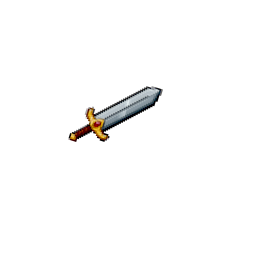
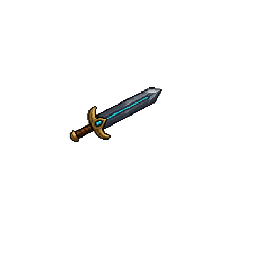
art: establish cyber-xiphos and rail-lance weapon language

Changed region(s): [[0.25, 0.3125, 0.6562, 0.5625]]

diff --git a/e2e/operator-weapon-art.spec.ts b/e2e/operator-weapon-art.spec.ts
@@ -1,0 +1,42 @@
+import { test, expect } from '@playwright/test';
+
+// Full-frame registration is the attachment contract: the renderer has no
+// per-weapon offset. Catch missing alpha, stray backgrounds and detached grips.
+for (const weapon of ['sword', 'spear']) {
+  test(`${weapon} loads as a transparent, hand-registered equipment layer`, async ({ page }) => {
+    await page.goto('/');
+    const result = await page.evaluate(async name => {
+      const map = await import('/src/lib/game/compendium-image-map.ts');
+      const read = async (url: string) => {
+        const image = new Image(); image.src = url; await image.decode();
+        const canvas = document.createElement('canvas');
+        canvas.width = image.width; canvas.height = image.height;
+        const ctx = canvas.getContext('2d')!; ctx.drawImage(image, 0, 0);
+        return { width: image.width, height: image.height,
+          data: ctx.getImageData(0, 0, canvas.width, canvas.height).data };
+      };
+      const art = await read(map.getWeaponImagePath(name));
+      const hand = await read(map.getOperatorHandPath());
+      let ink = 0, outside = 0, overlap = 0, sx = 0, sy = 0;
+      for (let y = 0; y < art.height; y++) for (let x = 0; x < art.width; x++) {
+        const i = (y * art.width + x) * 4 + 3;
+        if (!art.data[i]) continue;
+        ink++;
+        // Padded original weapon envelope, not a snapshot of the new artwork.
+        if (x < 44 || x > 164 || y < 84 || y > 151) outside++;
+        if (art.data[i] >= 128 && hand.data[i] >= 128) { overlap++; sx += x; sy += y; }
+      }
+      return { width: art.width, height: art.height, ink, outside, overlap,
+        gripX: sx / overlap, gripY: sy / overlap };
+    }, weapon);
+    expect([result.width, result.height]).toEqual([256, 256]);
+    expect(result.ink).toBeGreaterThan(200);
+    expect(result.ink).toBeLessThan(5000);
+    expect(result.outside).toBe(0);
+    expect(result.overlap).toBeGreaterThan(50);
+    expect(result.gripX).toBeGreaterThan(79);
+    expect(result.gripX).toBeLessThan(84);
+    expect(result.gripY).toBeGreaterThan(129);
+    expect(result.gripY).toBeLessThan(134);
+  });
+}

diff --git a/docs/AI-OPERATOR-ART-HANDOFF.md b/docs/AI-OPERATOR-ART-HANDOFF.md
@@ -1,7 +1,8 @@
-# Operator equipment art — Execution 1 baseline
+# Operator equipment art — Executions 1–2
 
 Branch: `astra/operator-equipment-art-revision`, from current main **aaff08e**
-(2026-09-13). Execution 1 complete; no production code, mappings or PNGs changed.
+(2026-09-13). Execution 2 complete (2026-09-14): only the sword and spear
+production PNGs revised. Production code, mappings and all other art unchanged.
 
 ## Durable references
 
@@ -113,15 +114,62 @@ Pre-existing observations (do not repair in Execution 1):
   No equipment alpha touches a source-canvas edge, and no source-edge clipping or
   disconnected grip was found in the reviewed composites. No async render errors.
 
+## Execution 2 — weapon foundation
+
+- **Cyber-Xiphos:** dark advanced blade with a subtle leaf-shaped swell, steel-grey
+  bevel, substantial antique-brass curved/wing guard, and one narrow cyan blade
+  seam. The guard's cyan inset supports that focal point without bloom. Keep the
+  blade predominantly dark; classical ancestry is geometry, not engraving.
+- **Hoplite Rail-Lance:** long segmented dark-composite shaft, compact brass-ended
+  counterweight, strong brass collar, angular leaf spearhead and narrow cyan core.
+  Both weapons now share the utilities' dark hardware and restrained cyan. Gold
+  occupies fittings rather than whole blades; no external glow or ornament text.
+- Generated using built-in imagegen with original PNGs as positional targets and
+  scanner/thruster as material references. The spear also referenced the revised
+  sword. A separate imagegen extraction removed a baked checkerboard in the first
+  spear draft; that rejected draft is not shipped. Prompt briefs are in
+  `docs/operator-art-execution-2/production-notes.md`.
+- Integration corrected generated full-frame registration with Sharp: remove alpha
+  below 32, crop remaining ink, nearest-neighbour resize to the original solid
+  envelope, then place on transparent 256×256. Sword: 93×55 at (69,87); spear:
+  114×44 at (47,104). No renderer offset, rotation or attachment changes.
+- Final solid hand intersections: sword **110px**, centroid **(81.300,131.691)**;
+  spear **87px**, centroid **(81.230,131.885)**. Both remain in the original grip
+  region. No edge ink or detached grip; original hand/sleeve/gauntlets still cover
+  the handles correctly. All other 15 source hashes still match Execution 1.
+- Reviewed six real React OperatorPreview loadouts: each weapon with body armor,
+  gauntlets and shield, plus scope/scanner/thruster. Checked 256px source sheet,
+  native 320px composites, and actual desktop/phone display. Brass/cyan remain
+  readable; no utility obstruction or new clipping found. Existing medieval
+  operator/armor mismatch remains pending the later executions.
+- Evidence: `docs/operator-art-execution-2/weapons-before-after.png`,
+  `loadouts-320.png` (six actual composites, each 320px), and `validation.json`.
+  Reuse the capture script with `CAPTURE_SET=weapon-foundation` and a fresh
+  `OUTPUT_DIR`; preserve the original baseline directory.
+- Changed files: the two weapon PNGs, this handoff, the capture script,
+  `e2e/operator-weapon-art.spec.ts`, and the Execution 2 evidence directory.
+
 ## Validation and next execution
 
 - Capture harness: **15/15** real UI composites, all **17/17** PNGs loaded at 256px;
   desktop and phone preview inspected. SHA-256 manifest preserves the exact baseline.
-- Existing `operator-utility-art.spec.ts`: **10 passed**, desktop/mobile (8.3s).
-  Rendering/mapping behavior and all production files remain unchanged.
-- Next: **Execution 2 only**, revise sword + spear using their original full-frame
-  PNGs and the measured ~81,132 grip. Match utility dark hardware/selective cyan,
-  adding structural antique gold and xiphos/rail-lance silhouette cues per the plan.
-  Validate through the real preview with armor/gauntlets and utilities at 256/320
-  and normal display size. Keep every other production asset unchanged. Do not
-  redo this baseline or begin the shield/helmet style gate yet.
+- Execution 1 `operator-utility-art.spec.ts`: **10 passed**, desktop/mobile (8.3s).
+  That baseline execution changed no production files.
+- Execution 2 capture: **6/6**, **17/17** images loaded, zero runtime errors;
+  bitmap 320×320 and display 322×322 including border on desktop and phone.
+- Utility + new weapon registration e2e: **14 passed (8.7s)** across desktop/mobile.
+  Weapon tests guard transparency, spatial envelope and hand overlap. Script syntax
+  check and `git diff --check` passed.
+- `npm run check`: **15 pre-existing TypeScript errors**, including GameCanvas,
+  compendium, Game/Demo, and the case-sensitive `pixlab3.PNG` import. All inputs
+  included by tsconfig and dependency versions are unchanged by this execution.
+  Not repaired as part of asset production. Tests used a temporary local config
+  with explicit loopback host and installed Chromium because this environment's
+  network-interface enumeration/default browser download failed; no repo config
+  changes were needed.
+- Next: **Execution 3 only**, shield + helmet and the four-prototype style gate.
+  Carry forward dark gunmetal, selective cyan and substantial brass fittings.
+  Keep utility attachment space and the documented layer order, especially scope
+  above helmet and scanner above shield. Revisit sword/spear only if that gate
+  exposes a concrete cross-family defect. Do not redo the baseline or propagate
+  the remaining weapons/armor before the gate.

diff --git a/docs/operator-art-execution-2/production-notes.md b/docs/operator-art-execution-2/production-notes.md
@@ -1,0 +1,46 @@
+# Execution 2 production notes
+
+Built-in imagegen produced the artwork. Sharp performed only the final alpha
+cleanup, resize and registration; it did not draw replacement weapon artwork.
+The production PNGs are the accepted outputs, not references to temporary files.
+
+## Prompt briefs
+
+**Sword — style transfer.** Edit the original sword, using scanner and thruster
+as material/pixel-style references only. Keep the original full-frame position,
+diagonal pose, grip (81,132), guard near (97,122), and tip near (158,89). Futuristic
+tactical Cyber-Xiphos: dark gunmetal advanced blade, subtle leaf-shaped swell,
+steel-grey bevels, substantial restrained antique-brass wing-like guard and short
+structural channel, one thin cyan energy seam, no external glow. Practical dark
+cybertech dominates classical ancestry, approximately 75–80% / 20–25%. Crisp pixel
+masses; no tiny engraving, operator, hands, text, background or other objects.
+Transparent square full-frame equipment layer, ideally 256×256.
+
+**Spear — style transfer.** Edit the original spear, using the revised sword for
+material language and scanner for technological/pixel style. Preserve shallow
+screen-right/up direction, shaft through (81,132), counterweight near (50,142),
+collar near (119,118), tip near (160,105). Hoplite Rail-Lance: long dark composite
+shaft with machined grips, compact technical counterweight with brass endcap,
+narrow heroic leaf spearhead, angular gunmetal head assembly, substantial antique
+brass collar and one thin cyan core. Same cybertech/classical balance and palette.
+No bloom, inscription, operator, hand, scenery or other objects; actual alpha.
+
+**Spear correction — background extraction.** Remove the entire baked grey
+checkerboard and haze from the first draft. Keep only the spear's artwork, dark
+outline, colors and pixel edges; preserve pose and relative size. Actual RGBA
+transparency outside the spear, not checkerboard pixels. No redesign or text.
+The first opaque draft was rejected. The extracted image was then registered to
+the original envelope as described in the handoff.
+
+## Review
+
+`weapons-before-after.png` uses original Git PNGs on the left and accepted files on
+the right, at 256px. `loadouts-320.png` contains six unscaled real React preview
+captures. The existing hand/gauntlets overlap the grips naturally. The spear's
+brass collar and the sword's guard remain visible beside the cyan utility devices.
+Body armor, shield, operator and support layers retain their original appearance;
+their style convergence belongs to subsequent executions.
+
+Validation: 6 loadouts, 17 assets loaded, no runtime errors; 14 relevant e2e tests
+passed on desktop/mobile. Typecheck remains blocked by 15 errors in unchanged
+production TypeScript. No gameplay, mapping or rendering code changed.
